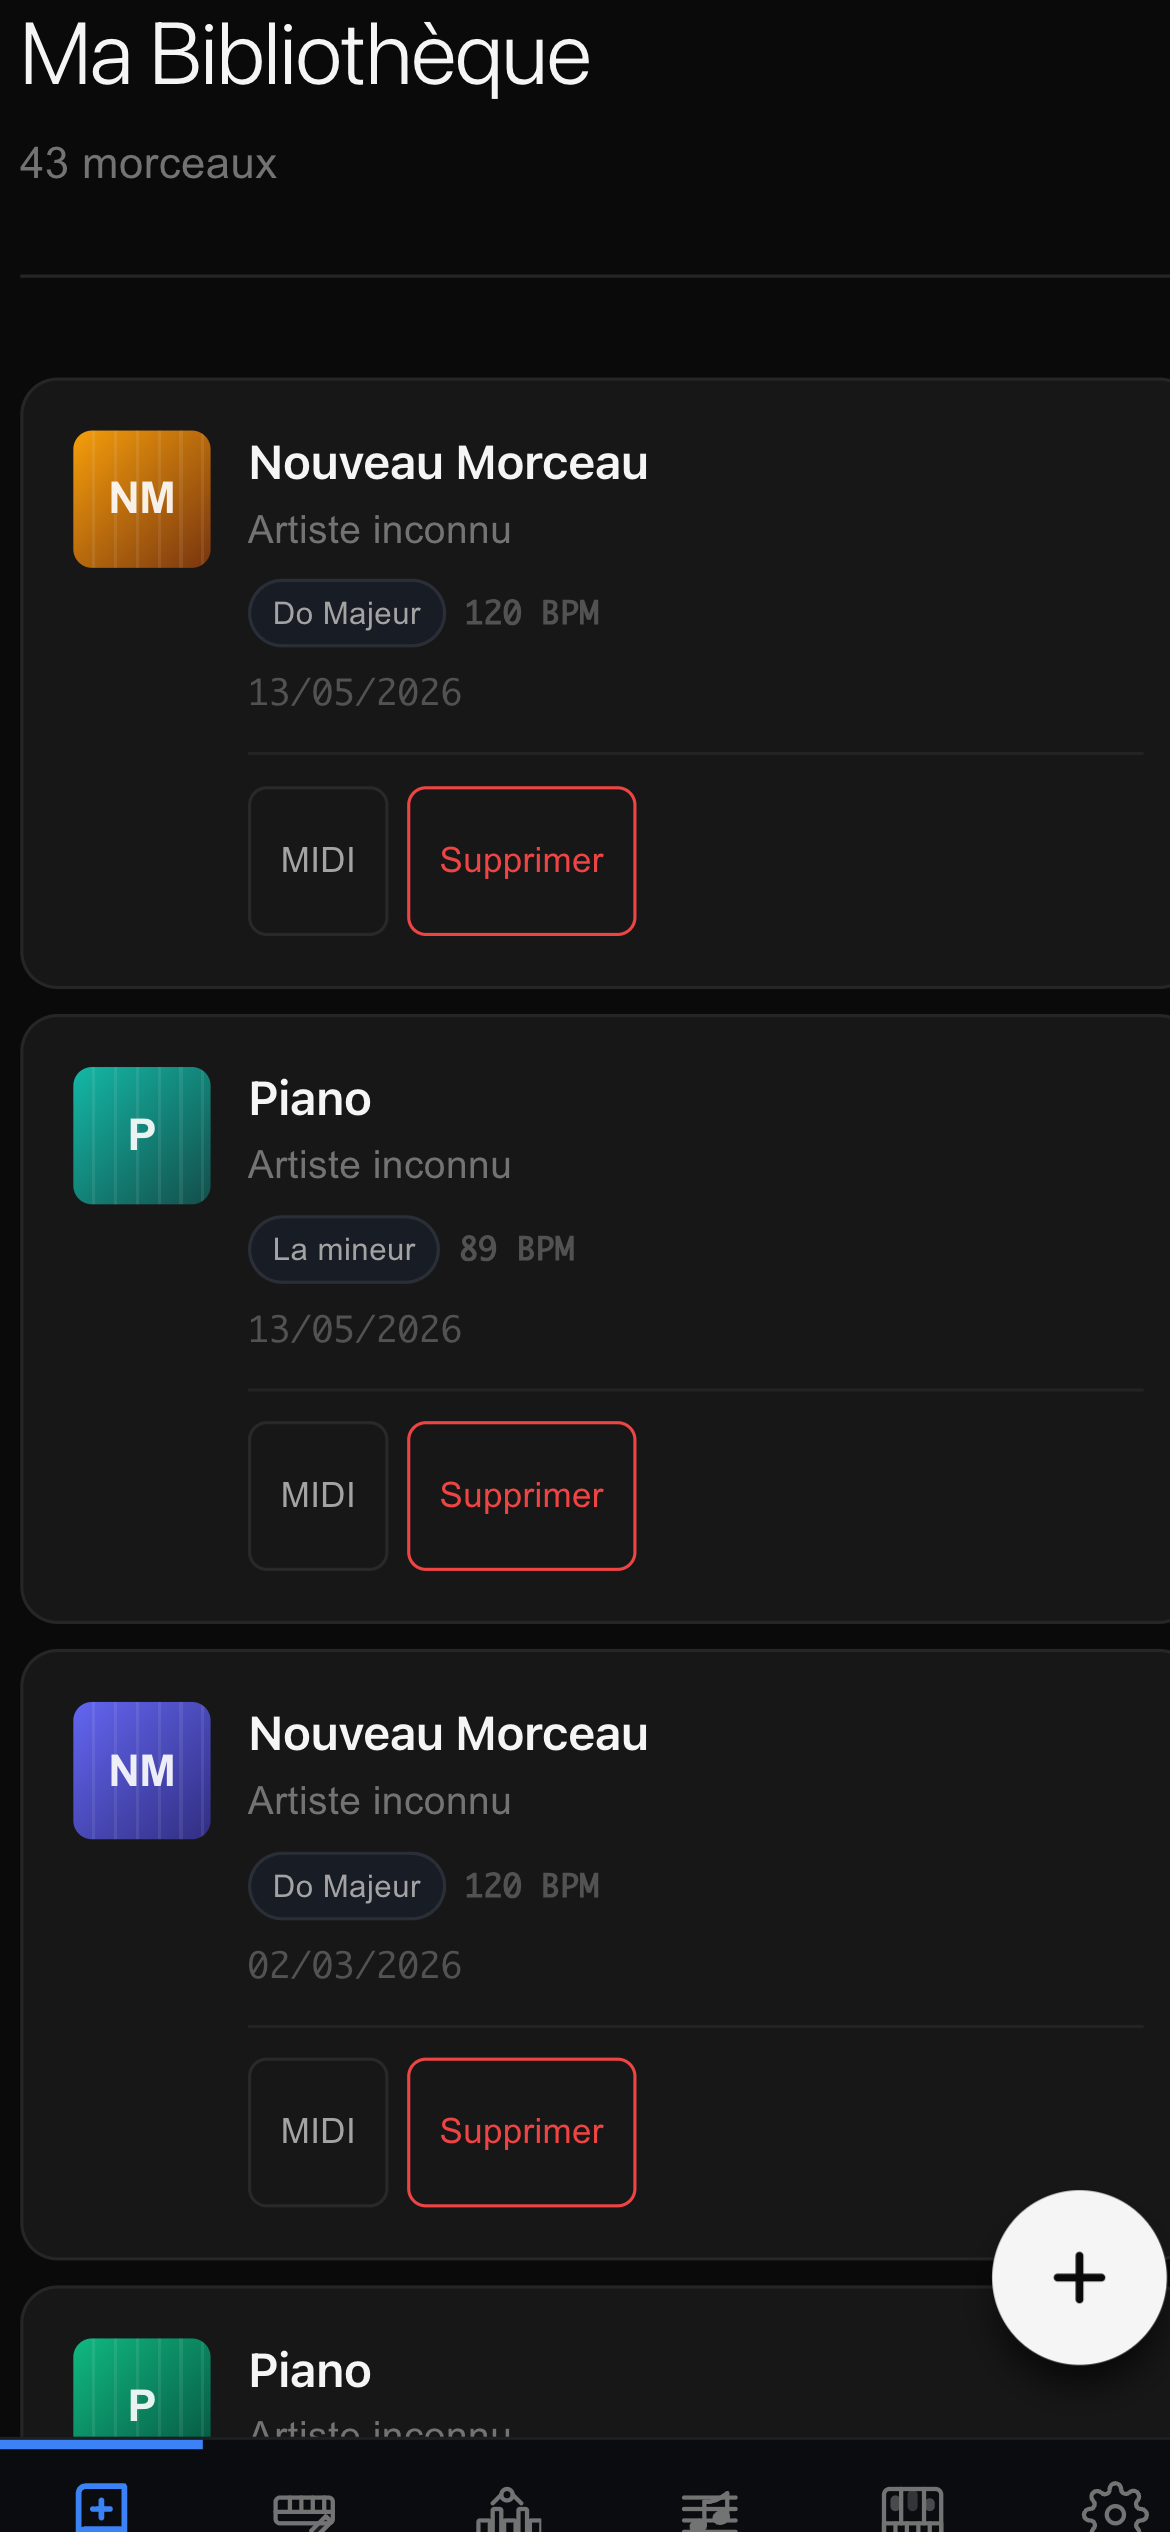
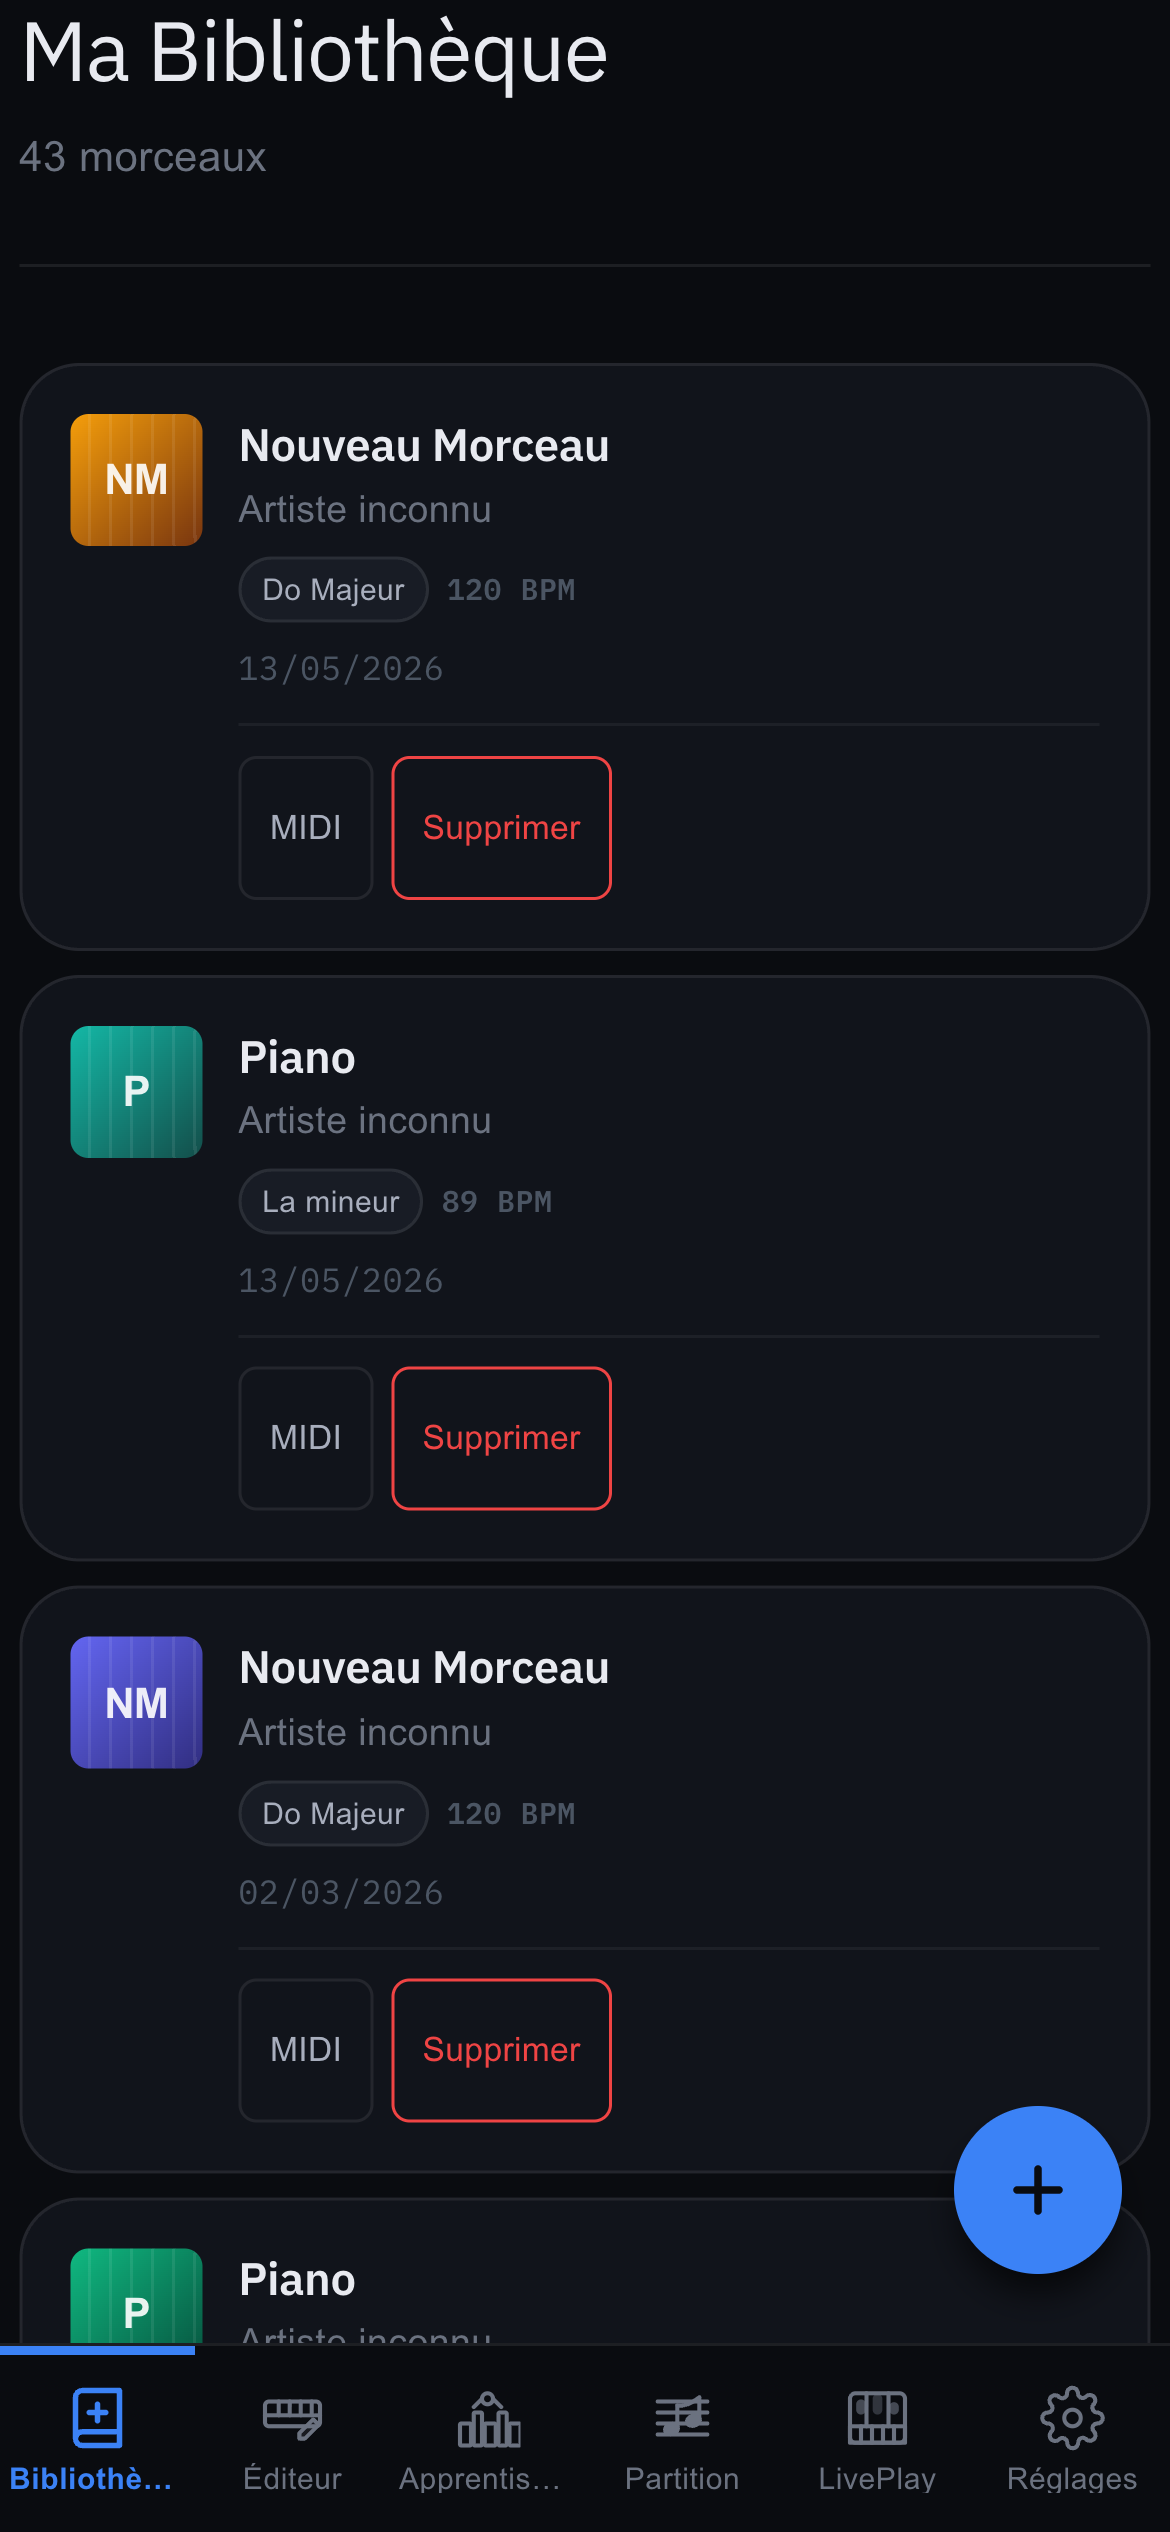
perf+fix: lower audio lookAhead + tokens.css overrides ThemeService
Audio latency
- AudioEngine.preload now sets Tone.context.lookAhead = 0.05 on all
  platforms (was 0.2 on mobile = 200ms of scheduling buffer). Live
  MIDI feels playable again on phones — total observed latency for
  triggerAttack(Tone.now()) drops by ~150ms.

Theme system
- main.jsx now imports index.css before styles/tokens.css so tokens
  win the cascade for shared variable names (--accent-primary,
  --bg-primary, --hand-right, --hand-left, --text-primary). The
  alias chain in tokens.css then drives the design picker.
- Removed the themeService.init() call — the previous JS-side theme
  service was writing the same vars inline, beating any CSS selector
  and breaking the data-theme / data-accent / data-hands switch.
  Picker in Settings now drives everything from the html attributes.

Verified live in chrome-devtools (mobile viewport): switching the
accent to "violet" resolves --accent to #8b5cf6 across the BottomTabBar
+ FAB + Cover initials; switching hands to "ocean" resolves
--hand-right to #38bdf8 (cyan) and --hand-left to #f97316 (orange).

diff --git a/src/main.jsx b/src/main.jsx
@@ -1,14 +1,14 @@
 import { StrictMode } from 'react'
 import { createRoot } from 'react-dom/client'
-import './styles/tokens.css'
 import './index.css'
+import './styles/tokens.css'
 import { ErrorBoundary } from './components/ErrorBoundary.jsx'
-import themeService from './services/ThemeService.js'
 
 const isMobilePlatform = import.meta.env.VITE_PLATFORM === 'mobile';
 
 // Apply design preset attributes (theme / accent / hands) from localStorage.
-// Defaults: dark, blue, classic.
+// Defaults: dark, blue, classic. tokens.css resolves the actual CSS vars
+// from these attributes — no JS theme service needed.
 try {
   const theme = localStorage.getItem('piano-teacher-design-theme') || 'dark';
   const accent = localStorage.getItem('piano-teacher-design-accent') || 'blue';
@@ -17,13 +17,6 @@ try {
   document.documentElement.setAttribute('data-accent', accent);
   document.documentElement.setAttribute('data-hands', hands);
 } catch (_) { /* localStorage may be unavailable on first paint */ }
-
-// Initialiser le thème (deferred to avoid Android WebView crash)
-try {
-  themeService.init();
-} catch (err) {
-  console.warn('Theme init deferred:', err.message);
-}
 
 // Initialiser les préférences de typographie
 try {

diff --git a/src/services/AudioEngine.js b/src/services/AudioEngine.js
@@ -58,11 +58,14 @@ class AudioEngine {
 
         const T = await loadTone();
 
-        // Adjust lookAhead for mobile (reduces crackling without replacing the context,
-        // which would break Tone.Transport used by playNotes/playPhrase)
-        const isMobile = /Mobi|Android|iPhone|iPad/i.test(navigator.userAgent);
+        // lookAhead trades latency for scheduling stability. The previous 0.2s on
+        // mobile (200ms) made live MIDI feel unplayable. 0.05s is the same as
+        // desktop — Tone.js' default — and matches Web Audio's ~50ms intrinsic
+        // latency, so total observed latency for triggerAttack(Tone.now()) stays
+        // under ~100ms on a phone. If we hit buffer underruns on low-end Android
+        // WebViews, bump back up only on those specifically.
         if (T.context) {
-            T.context.lookAhead = isMobile ? 0.2 : 0.05;
+            T.context.lookAhead = 0.05;
         }
 
         // Master volume node — everything routes through this